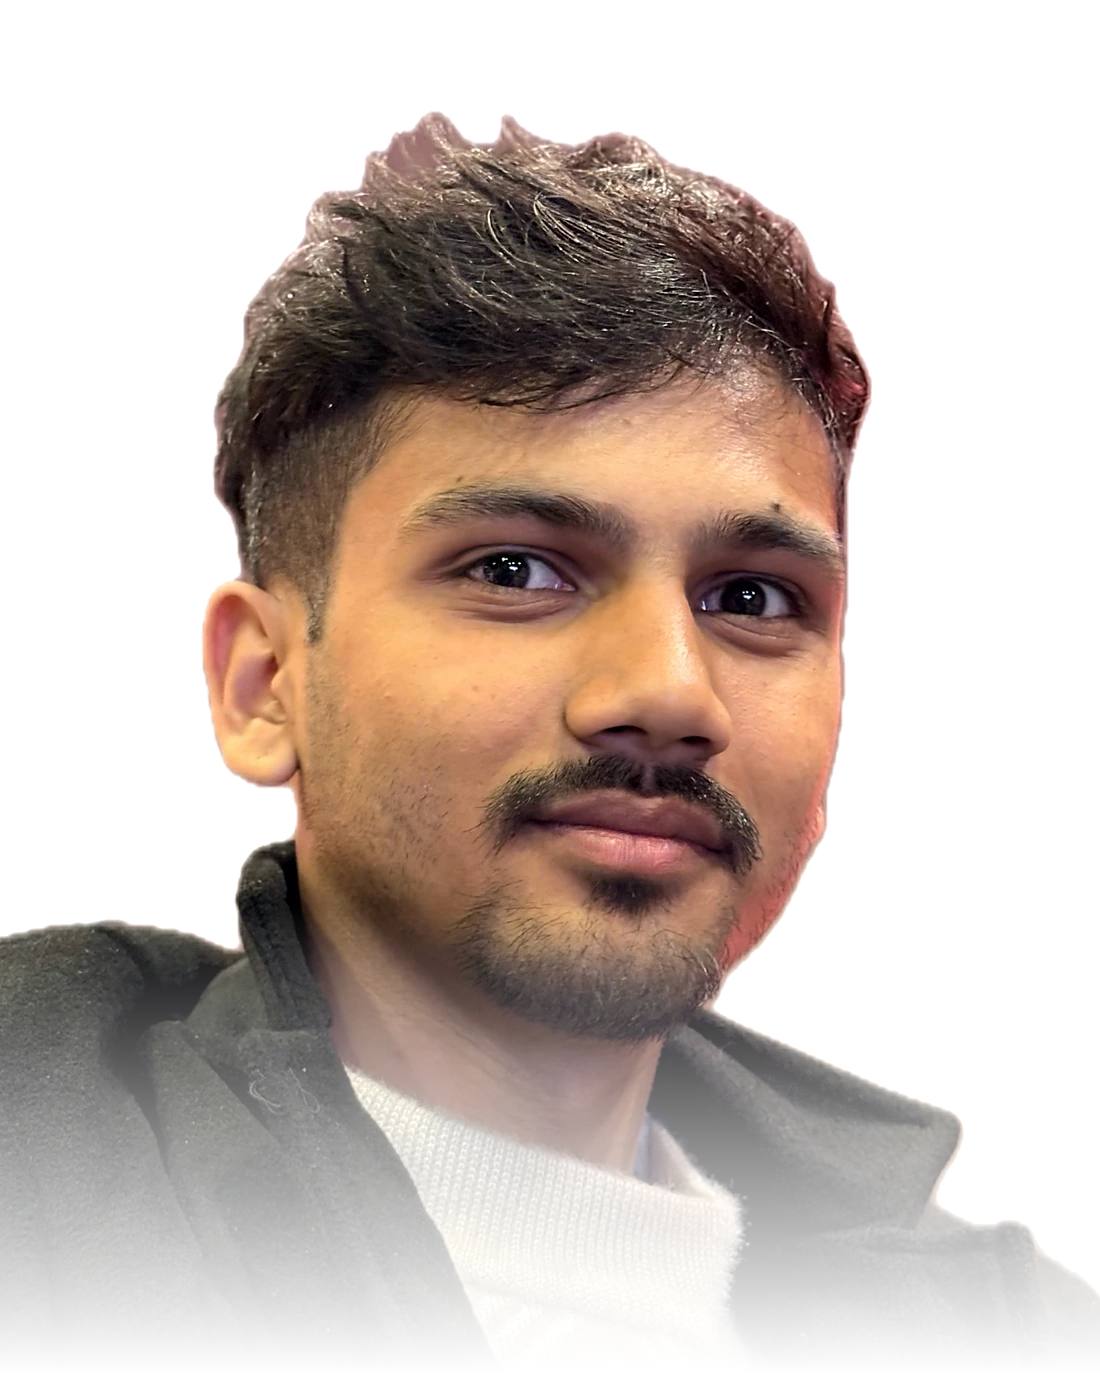
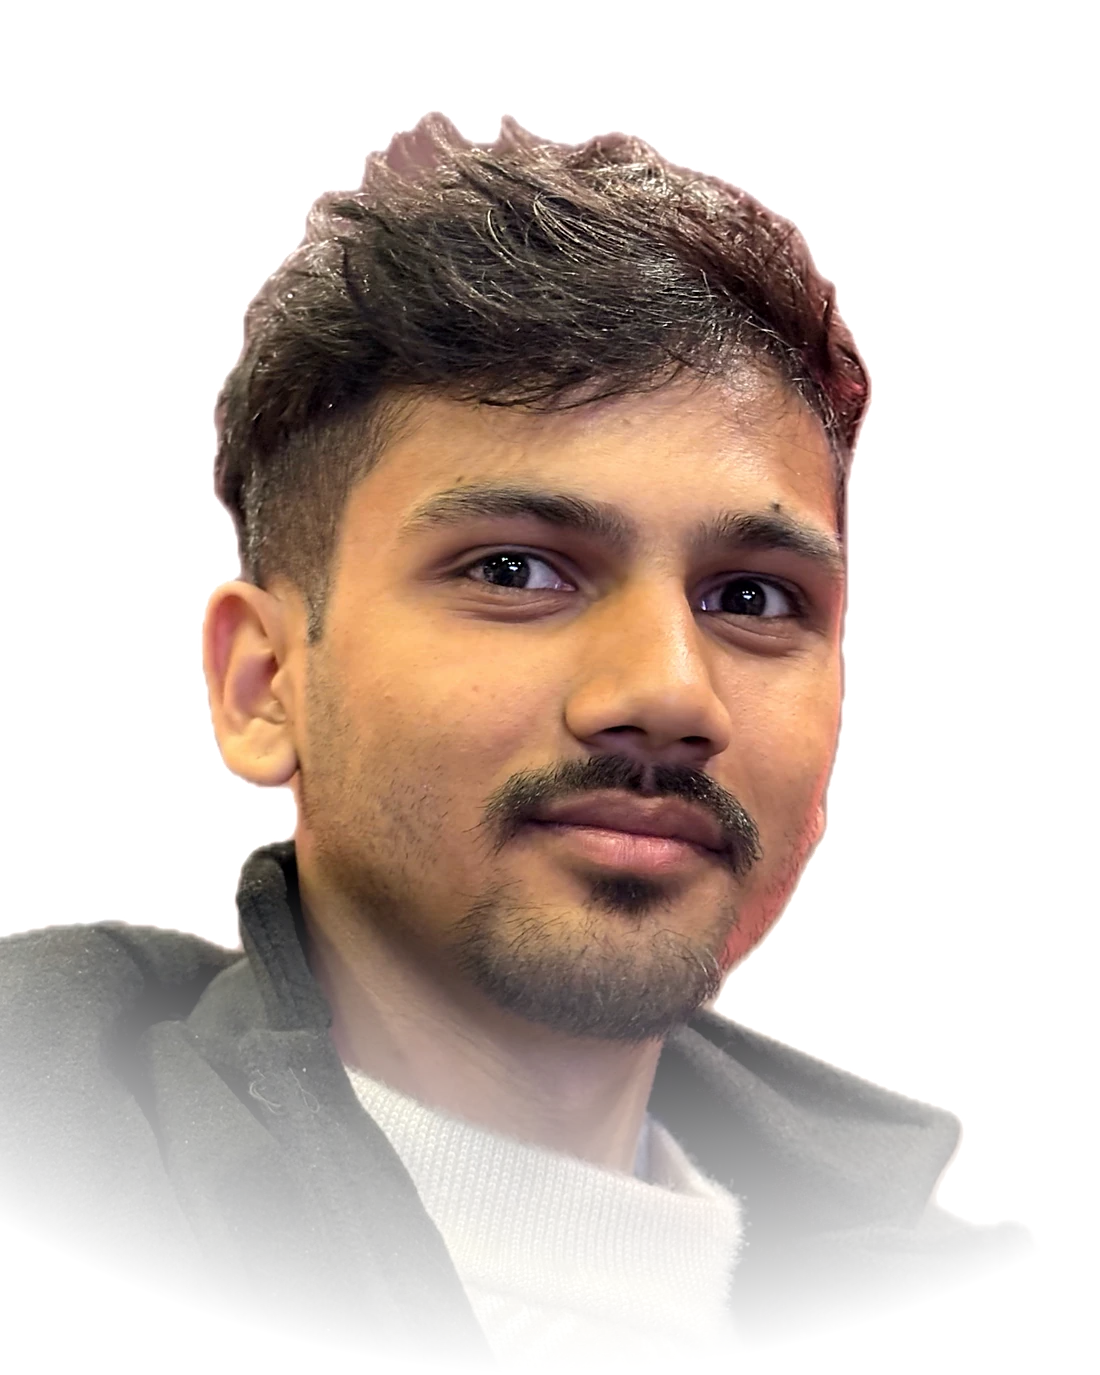
addv3

Changed region(s): [[0.0, 0.6415, 0.2473, 0.9775], [0.7418, 0.7942, 1.0, 0.9775]]

diff --git a/src/app/globals.css b/src/app/globals.css
@@ -526,7 +526,7 @@ p { text-wrap: pretty; }
 }
 
 @media (min-width: 940px) {
-  .hero__grid { grid-template-columns: minmax(0, 1.25fr) minmax(0, 0.75fr); }
+  .hero__grid { grid-template-columns: minmax(0, 1.1fr) minmax(0, 0.9fr); }
 }
 
 .hero__role {
@@ -648,7 +648,7 @@ p { text-wrap: pretty; }
 .hero__figure {
   position: relative;
   width: 100%;
-  max-width: 23rem;
+  max-width: 27rem;
   aspect-ratio: 1100 / 1375;
   margin-inline: auto;
 }
@@ -660,7 +660,7 @@ p { text-wrap: pretty; }
 }
 
 @media (max-width: 939px) {
-  .hero__figure { max-width: 18rem; }
+  .hero__figure { max-width: 21rem; }
 }
 
 .stat-strip {

diff --git a/src/components/Hero.tsx b/src/components/Hero.tsx
@@ -218,7 +218,7 @@ export default function Hero() {
               src="/images/prashant-figure.webp"
               alt="Prashant Bhandari"
               fill
-              sizes="(max-width: 940px) 70vw, 23rem"
+              sizes="(max-width: 940px) 80vw, 27rem"
               priority
             />
             </motion.div>
